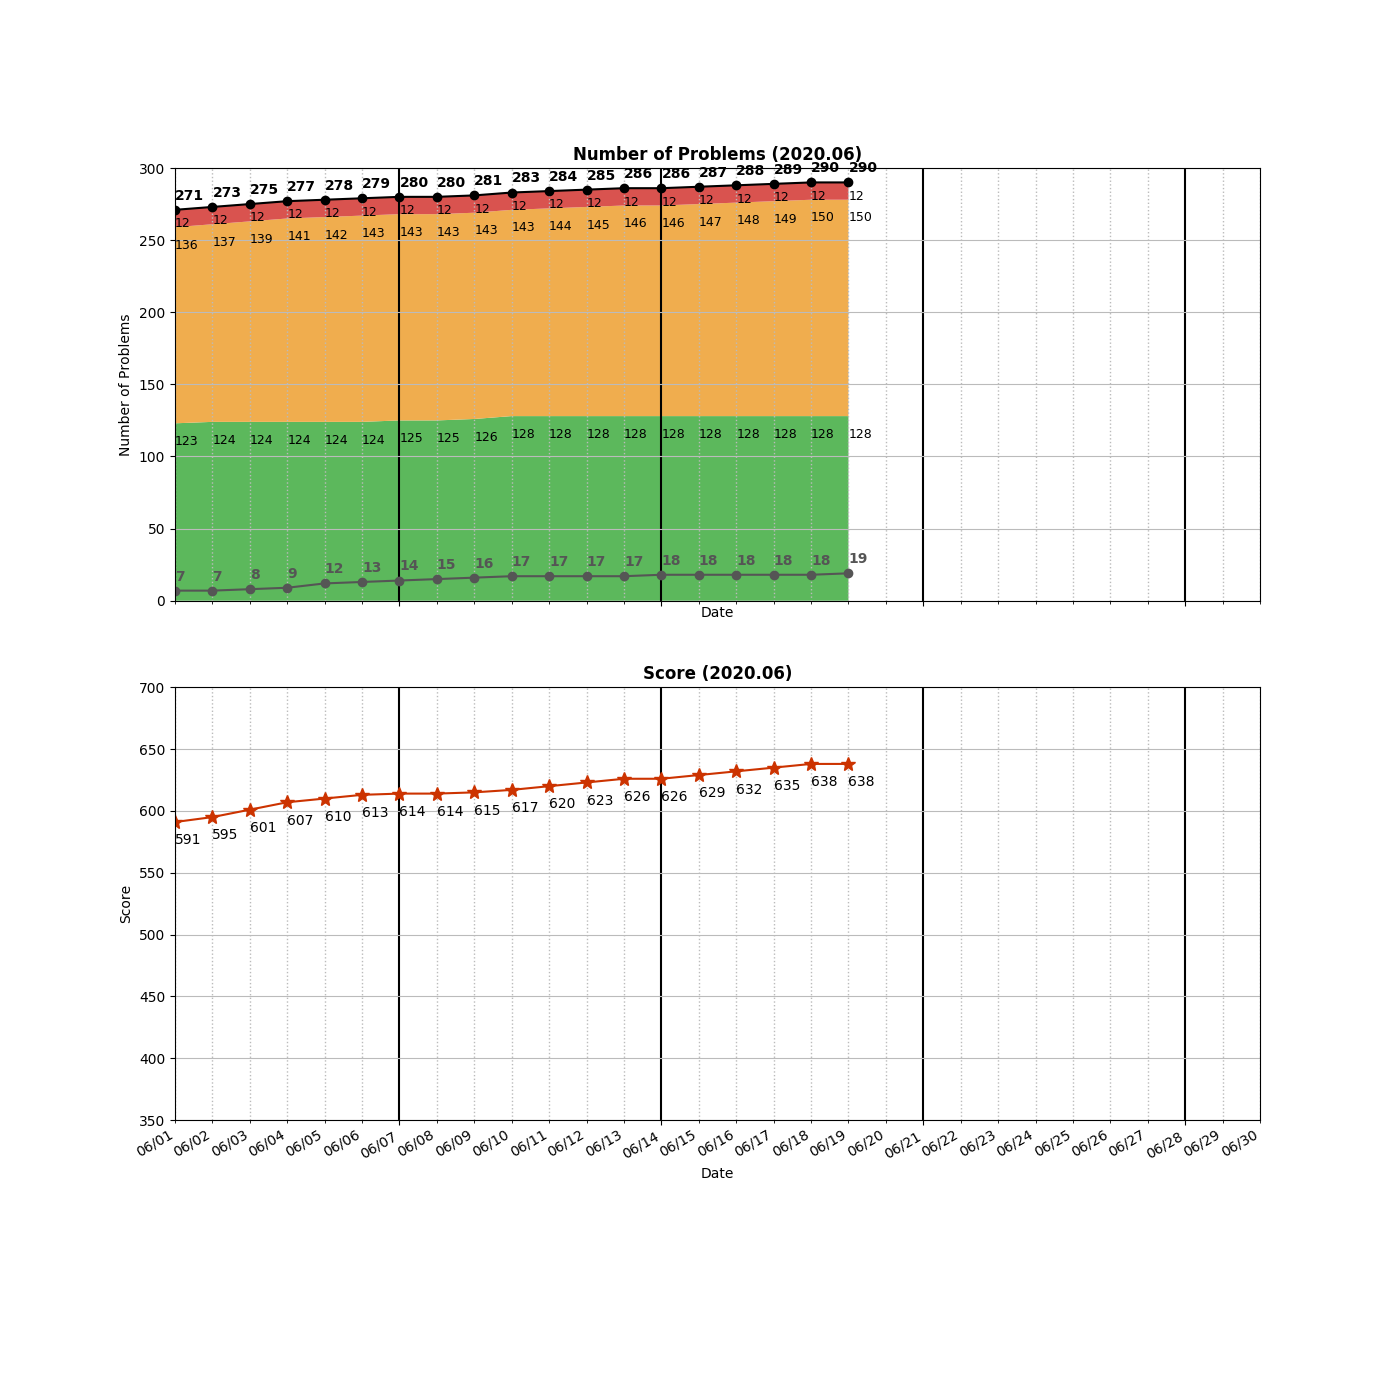
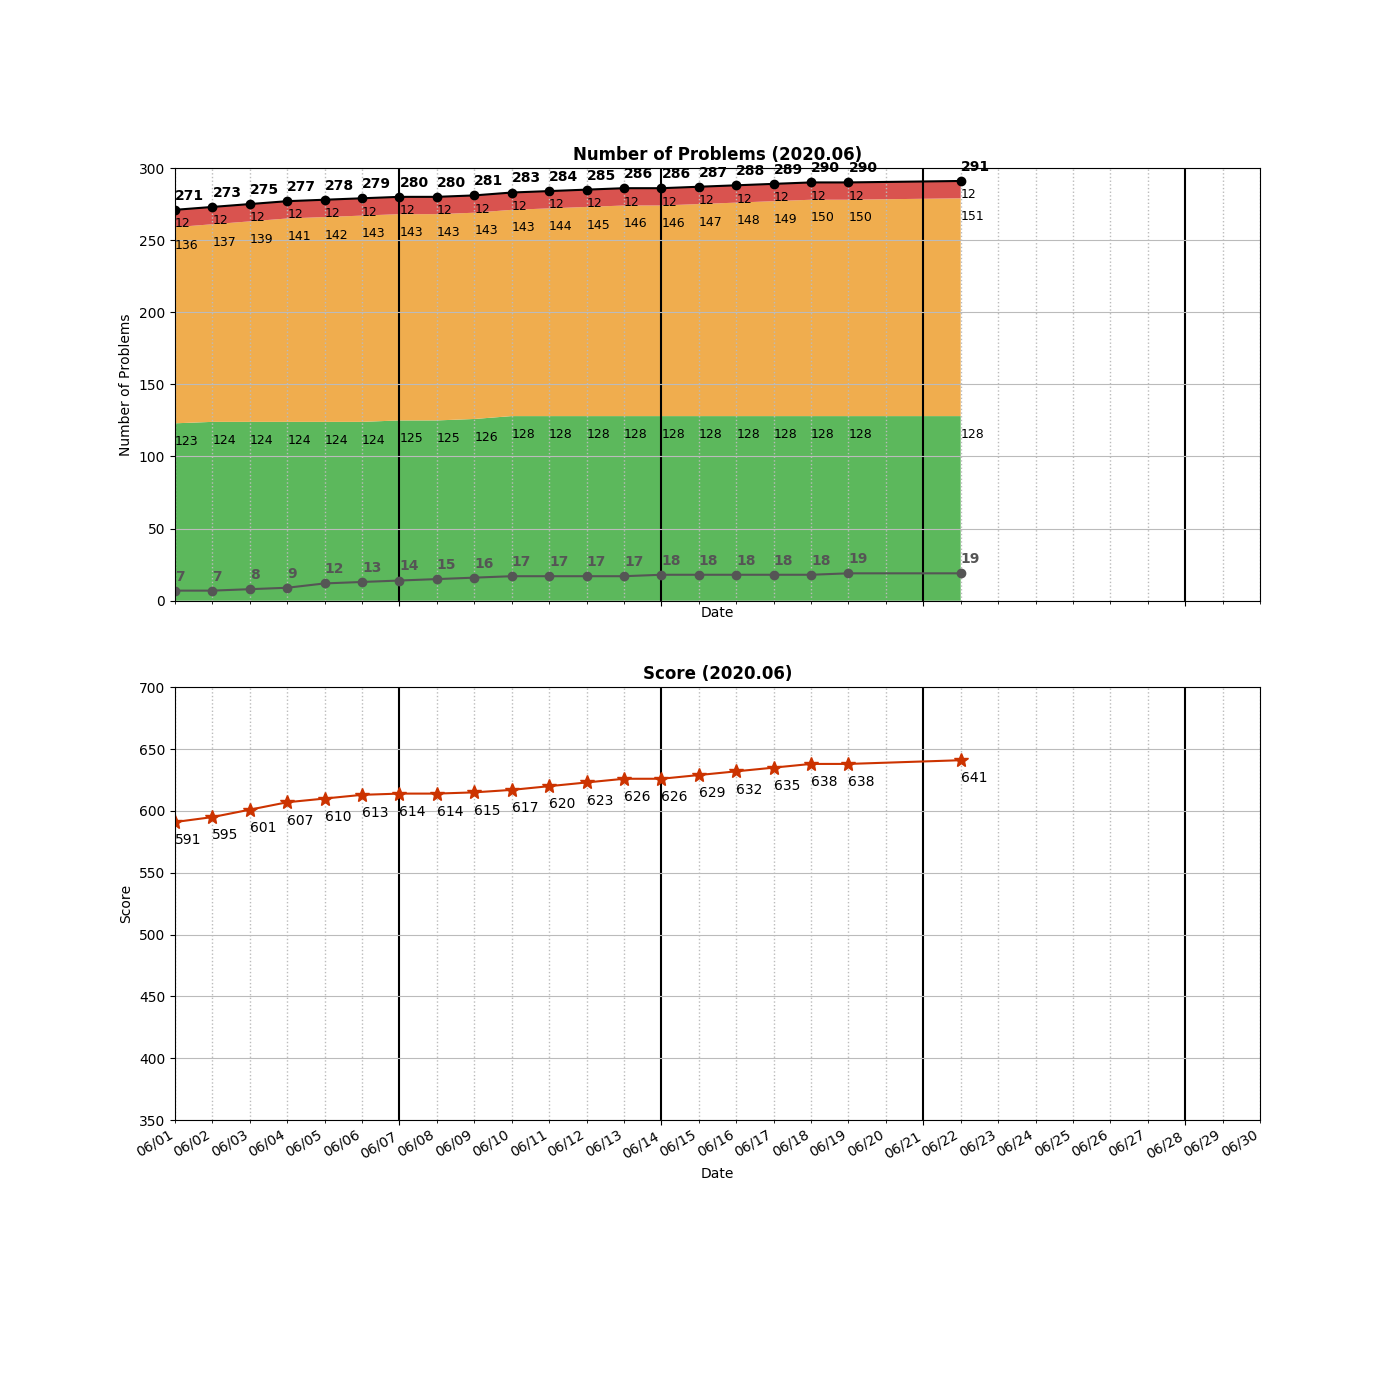
Added _0451_SortCharactersByFrequency.py

Changed region(s): [[0.5836, 0.1229, 0.7064, 0.43]]

diff --git a/algo/hashmap/_0451_SortCharactersByFrequency.py b/algo/hashmap/_0451_SortCharactersByFrequency.py
@@ -1,0 +1,13 @@
+class Solution:
+    
+    #Hashmap to count, sort by the occurrence [53%-81%]
+    def frequencySort(self, s: str) -> str:
+        counter = collections.Counter(s)
+        sortedCounter = sorted(counter.items(), key = lambda x: -x[1])
+        
+        ans = []
+        for char, cnt in sortedCounter:
+            for j in range(cnt):
+                ans.append(char)
+        
+        return ''.join(ans)

diff --git a/README.md b/README.md
@@ -150,6 +150,7 @@ algo
 │   ├── _0387_FirstUniqueCharacterInAString.py
 │   ├── _0409_LongestPalindrome.py
 │   ├── _0438_FindAllAnagramsInAString.py
+│   ├── _0451_SortCharactersByFrequency.py
 │   ├── _0525_ContiguousArray.py
 │   ├── _0535_EncodeAndDecodeTinyURL.py
 │   ├── _0560_SubarraySumEqualsK.py
@@ -314,7 +315,7 @@ algo
     ├── _0127_WordLadder_TLE.py
     └── _0127_WordLadder_wrong.py
 
-25 directories, 288 files
+25 directories, 289 files
 
 =====================================
 ============= Local Repo ============
@@ -510,6 +511,7 @@ _0429_N-aryTreeLevelOrderTraversal.py
 _0438_FindAllAnagramsInAString.py
 _0442_FindAllDuplicatesInAnArray.py
 _0448_FindAllNumbersDisappearedInAnArray.py
+_0451_SortCharactersByFrequency.py
 _0459_RepeatedSubstringPattern.py
 _0463_IslandPerimeter.py
 _0485_MaxConsecutiveOnes.py
@@ -607,7 +609,7 @@ _1358_NumberOfSubstringsContainingAllThreeCharacters.py
 _1391_CheckIfThereIsAValidPathInAGrid.py
 _1427_PerformStringShifts.py
 =====================================
-Num of Python Practice:  287
+Num of Python Practice:  288
 
 
 =====================================
@@ -803,6 +805,7 @@ Num of Python Practice:  287
  0438 Find All Anagrams in a String
  0442 Find All Duplicates in an Array
  0448 Find All Numbers Disappeared in an Array
+ 0451 Sort Characters By Frequency
  0459 Repeated Substring Pattern
  0463 Island Perimeter
  0485 Max Consecutive Ones
@@ -904,11 +907,11 @@ Num of Python Practice:  287
  1426 Counting Elements
  1427 Perform String Shifts
 =====================================
-Solved / Total (Easy)  :  128 /  416
-Solved / Total (Medium):  150 /  758
-Solved / Total (Hard)  :   12 /  311
-Solved / Total (All)   :  290 / 1485
-Total Score            :  638
+Solved / Total (Easy)  :  128 /  417
+Solved / Total (Medium):  151 /  760
+Solved / Total (Hard)  :   12 /  312
+Solved / Total (All)   :  291 / 1489
+Total Score            :  641
 =====================================
 
 ```
